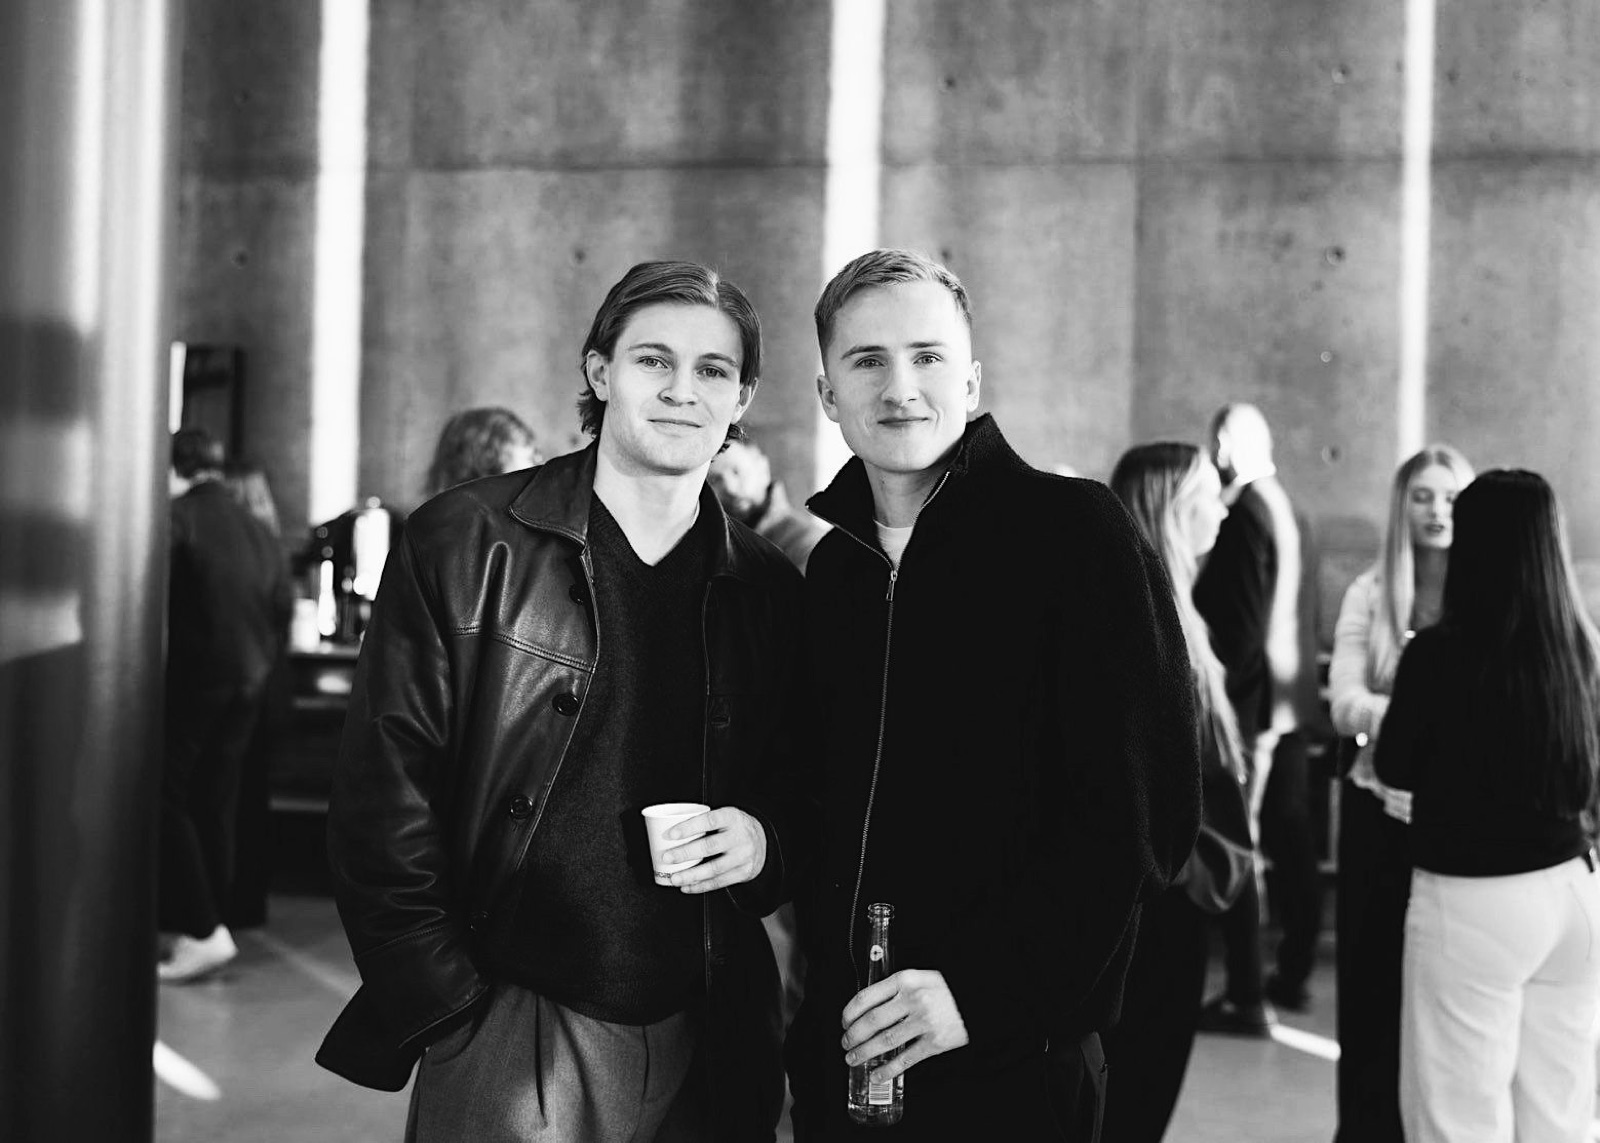
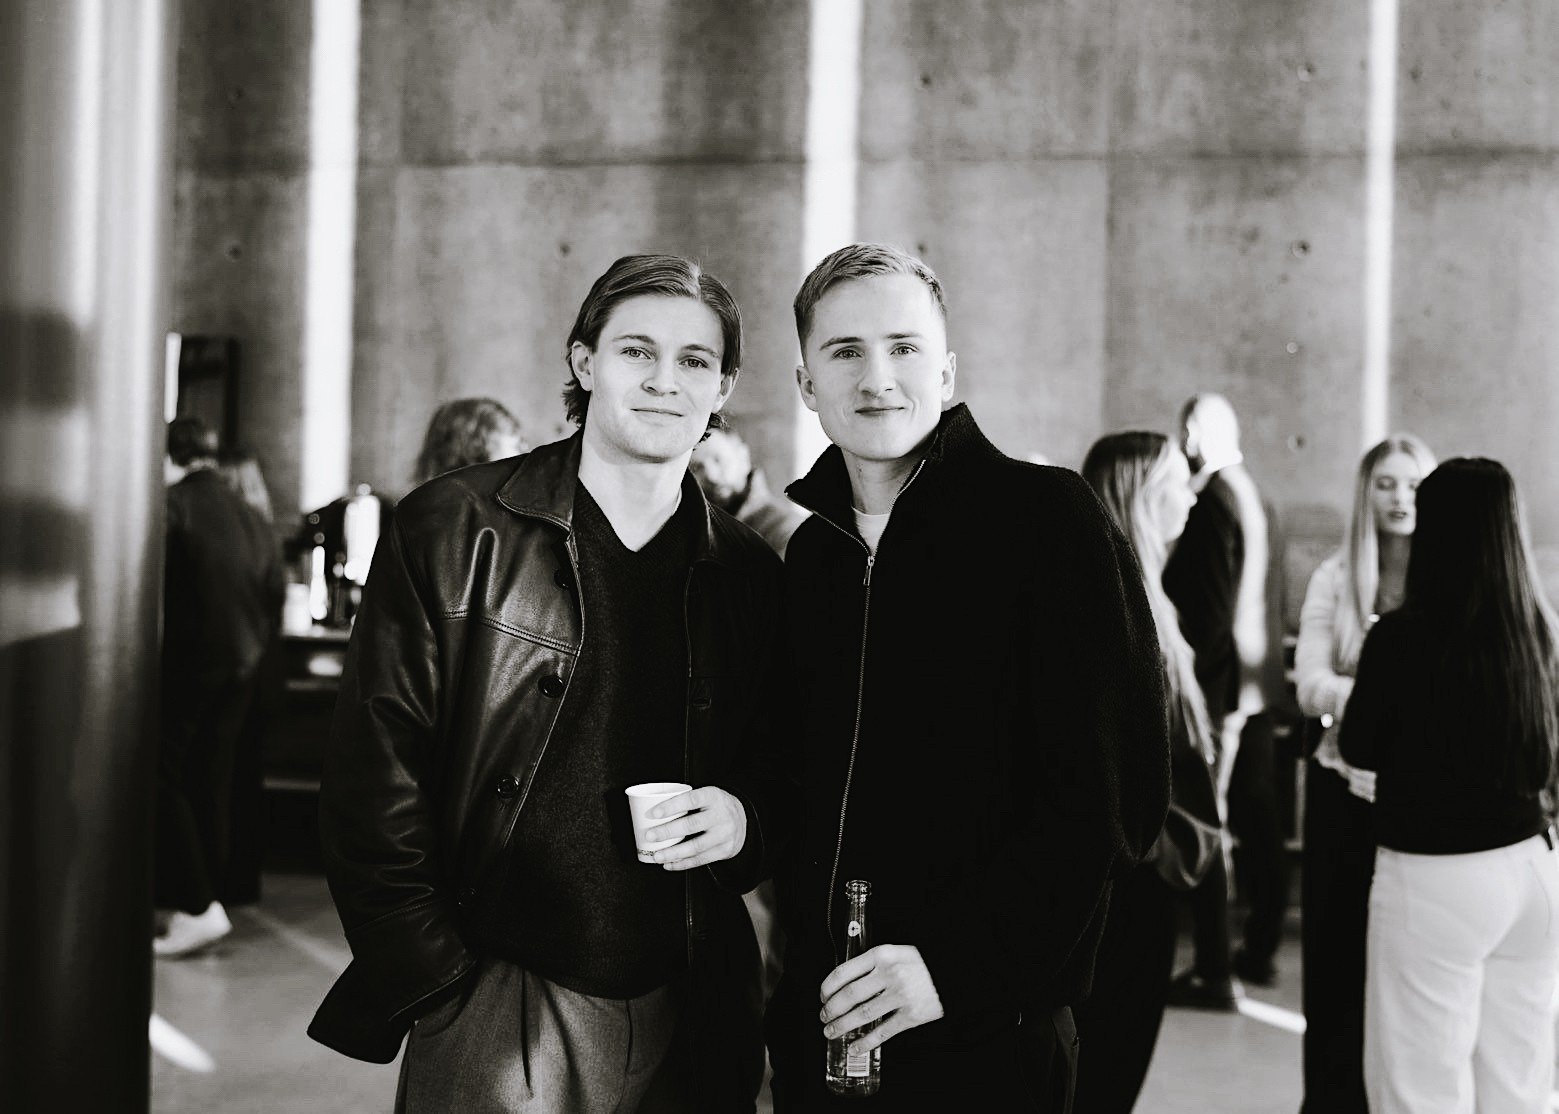
Forsíða: skýrari mynd af Mirza og Óskari í hetjunni

diff --git a/index.html b/index.html
@@ -167,7 +167,7 @@
 
     <!-- ===================== HERO ===================== -->
     <section class="hero">
-      <img class="hero__bak" src="assets/img/okkur.jpg" alt="Mirza Hasecic og Óskar Hákonar" width="1600" height="1143">
+      <img class="hero__bak" src="assets/img/okkur.jpg" alt="Mirza Hasecic og Óskar Hákonar" width="1559" height="1114">
       <div class="hero__yfir">
         <h1 data-en-html="We make marketing <em>more fun</em>">Við gerum markaðssetningu <em>skemmtilegri</em></h1>
         <p class="hero__nofn" data-en="Mirza Hasecic and Óskar Hákonar">Mirza Hasecic og Óskar Hákonar</p>
